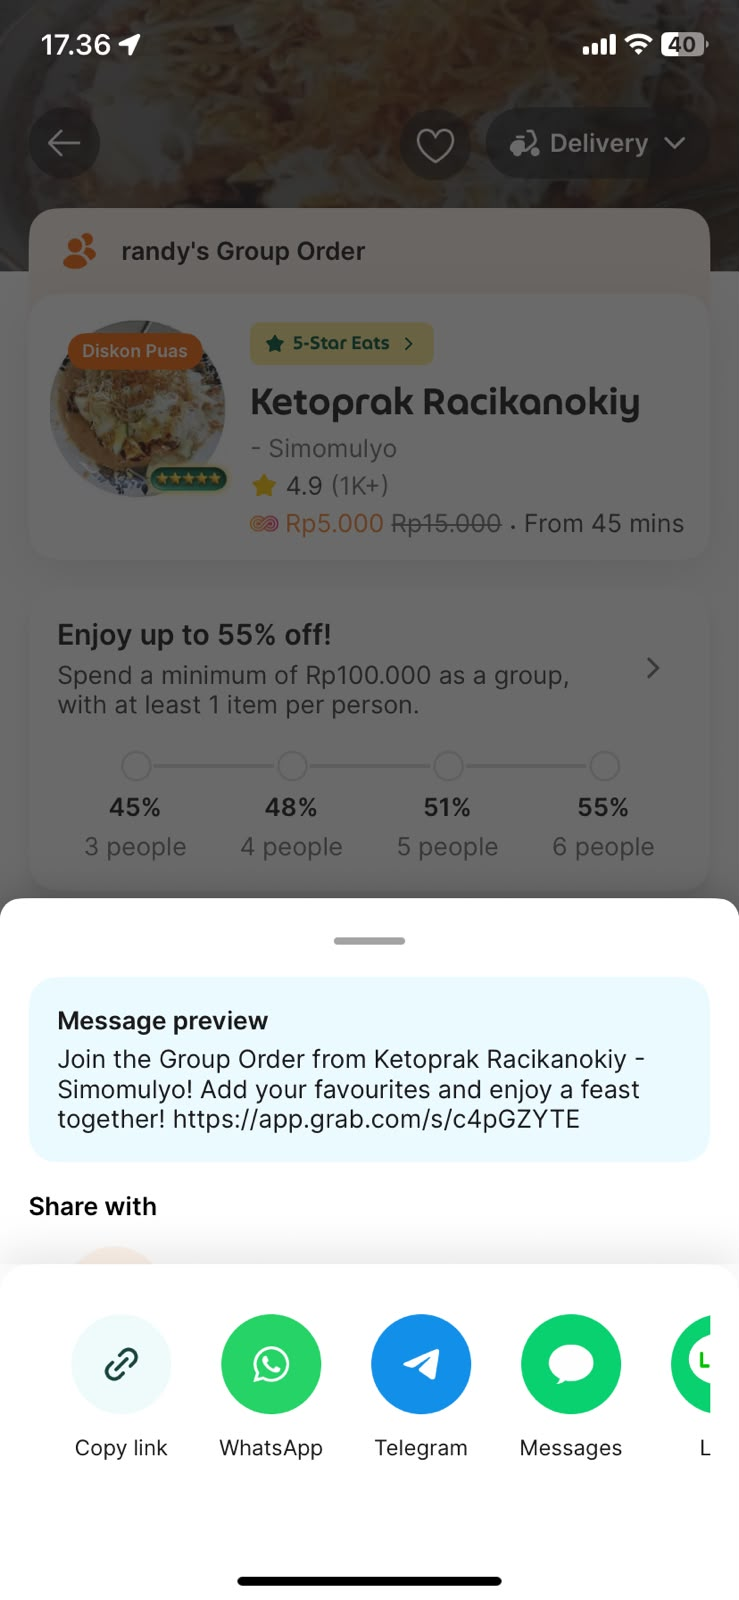
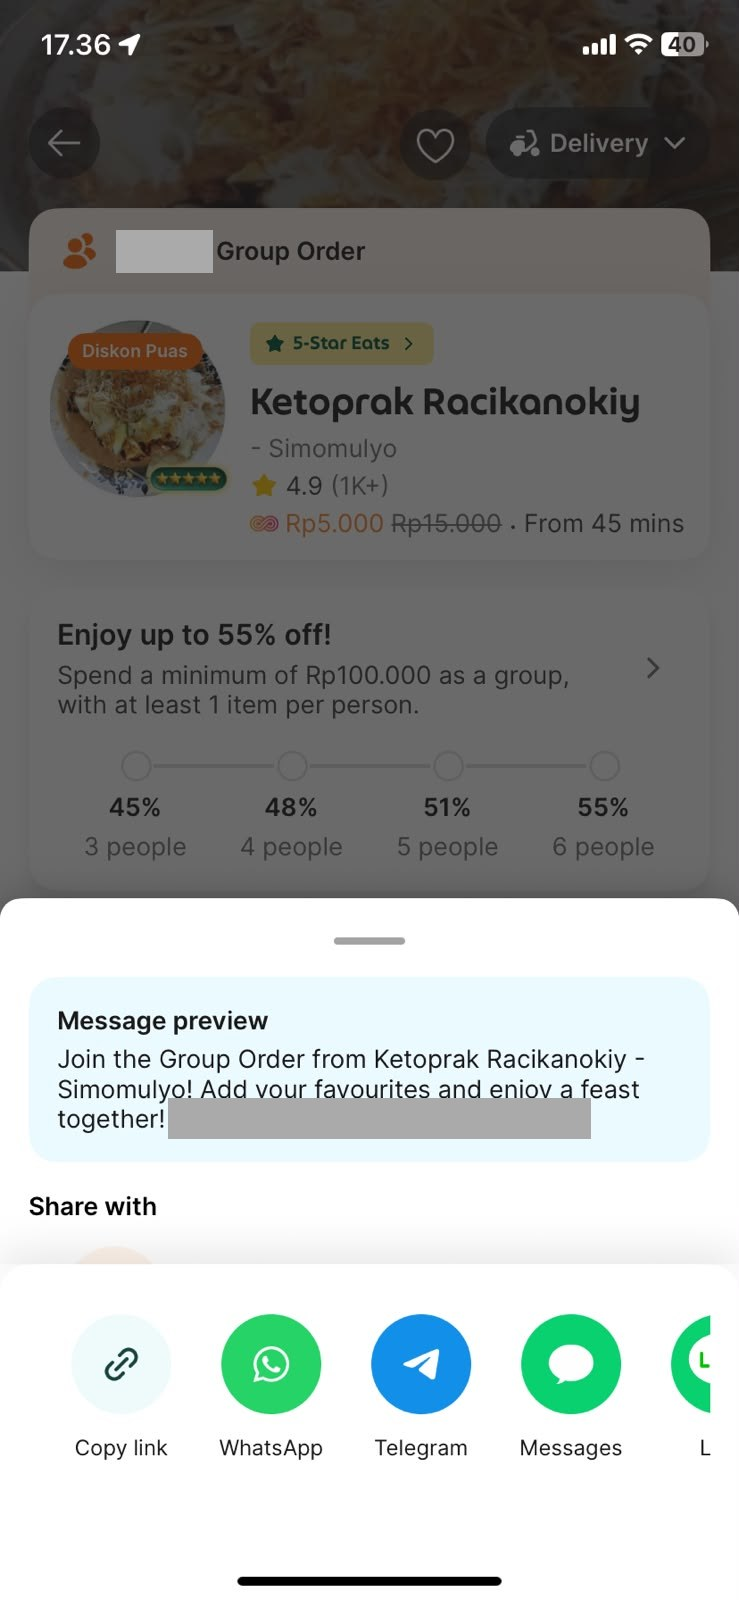
Referensi group order: tutup data pribadi di screenshot, tandai tafsiran & butir menunggu G-03/P-17/P-28 (QA 12 Nov)
Claude-Session: https://claude.ai/code/session_01S85dXoQzQtswa1GoQMY91J

Changed region(s): [[0.2179, 0.6875, 0.8092, 0.7188], [0.1556, 0.125, 0.3112, 0.1875]]

diff --git a/docs/referensi/group-order/README.md b/docs/referensi/group-order/README.md
@@ -1,8 +1,8 @@
 # Referensi UI/UX Group Order — ShopeeFood & GrabFood
 
-Diberikan pemilik (Randy) 12 Nov 2026 sebagai acuan desain group order NEKAT. Wajib dipakai oleh T-007 (spesifikasi UX), T-008 (komponen UI), T-024 (link grup), T-027 (kartu produk), T-028 (detail produk), dan T-033 (checkout).
+Diberikan pemilik (Randy) 12 Nov 2026 sebagai acuan desain group order NEKAT. Usulan agen: dipakai sebagai acuan oleh T-007 (spesifikasi UX), T-008 (komponen UI), T-024 (link grup), T-027 (kartu produk), T-028 (detail produk), dan T-033 (checkout). Status "wajib" menunggu persetujuan Randy (merge PR #10). Bila bertentangan dengan `keputusan.md` atau spesifikasi yang sudah di-merge, keputusan/spesifikasi yang menang.
 
-Screenshot di folder ini hanya untuk referensi internal. Jangan menyalin logo, nama merek, ilustrasi, atau warna khas Shopee/Grab ke aplikasi NEKAT.
+Screenshot di folder ini hanya untuk referensi internal; nama akun, nama kontak, dan link undangan asli sudah ditutup (sesi QA 12 Nov). Jangan menyalin logo, nama merek, ilustrasi, atau warna khas Shopee/Grab ke aplikasi NEKAT.
 
 | File | Isi |
 |---|---|
@@ -16,9 +16,9 @@ Screenshot di folder ini hanya untuk referensi internal. Jangan menyalin logo, n
 | # | Pola | Sumber | Penerapan di NEKAT |
 |---|---|---|---|
 | R1 | Tombol **"Group Order"** menonjol di samping aksi utama | Grab | Di detail produk dan halaman toko/kategori: tombol "Belanja Bareng (Group Order)" di samping "+ Keranjang" |
-| R2 | Chip promo "Hemat s.d. X% pakai Group Order" | Grab, Shopee | Chip di kartu produk & detail; angka X dihitung dari harga tier termurah vs harga 1 pcs (rupiah tetap ditampilkan, aturan "harga kartu = detail") |
+| R2 | Chip promo "Hemat s.d. X% pakai Group Order" | Grab, Shopee | Chip di kartu produk & detail; angka X dihitung hanya dari tingkat harga yang **berlaku untuk level pembeli yang melihat** (bukan harga Mitra/grosir), vs harga 1 pcs; rupiah tetap ditampilkan, aturan "harga kartu = detail"; definisi harga coret menunggu P-17 |
 | R3 | **Kartu progres bertingkat** (garis dengan titik per tingkat) | Shopee, Grab | Satu komponen `TanggaGrup`: titik = tingkat harga produk (1 pcs, 3 pcs, lusin, dus, koli sesuai produk, keputusan P-03); label bawah = harga per pcs; titik aktif berwarna |
-| R4 | **Kalimat ajakan konkret**: "Ajak 2 orang untuk dapat diskon 6%" | Shopee | "Kurang **2 akun** agar grup terbuka" (sebelum 3 akun) lalu "Tambah **5 pcs** lagi → Rp{harga}/pcs" (setelah grup terbuka) |
+| R4 | **Kalimat ajakan konkret**: "Ajak 2 orang untuk dapat diskon 6%" | Shopee | "Kurang **2 akun** agar grup terbuka" (sebelum 3 akun) lalu "Tambah **5 pcs** lagi → Rp{harga}/pcs" (setelah grup terbuka). *Tafsiran agen*: tingkat harga dihitung dari kuantitas gabungan grup; cara hitung (per unit gabungan atau per akun) belum terjawab di P-03/F-04 |
 | R5 | Baris anggota: avatar + "1 orang" + tombol **Undang** | Shopee | Avatar inisial (nama disamarkan, Kebijakan Privasi §3) + "{n} akun · {m} pcs" + tombol "Undang" |
 | R6 | Header grup: "**{nama} Group Order**" + tombol **Batal** | Shopee | "Grup {nama}" + "Keluar grup" (batal hanya sebelum bayar/cut-off sesuai flow T-002) |
 | R7 | Layar **Buat grup** berisi syarat, tangga, cara bayar, batas waktu, nama grup, tombol besar di bawah | Grab | Lihat §3 |
@@ -31,12 +31,12 @@ Screenshot di folder ini hanya untuk referensi internal. Jangan menyalin logo, n
 
 | Referensi | NEKAT | Dasar |
 |---|---|---|
-| Diskon naik berdasarkan **jumlah orang** (2, 3…6 orang) | Harga naik-turun berdasarkan **kuantitas barang** per tingkat produk; jumlah akun hanya syarat **membuka** grup (min. 3) | `keputusan.md` #3, P-03 |
+| Diskon naik berdasarkan **jumlah orang** (2, 3…6 orang) | Harga naik-turun berdasarkan **kuantitas barang** per tingkat produk; jumlah akun hanya syarat **membuka** grup (min. 3) | `keputusan.md` #3, P-03 (cara hitung kuantitas: *tafsiran agen*, lihat R4) |
 | Diskon ditampilkan sebagai **persen** | Tampilkan **rupiah per pcs**, persen boleh sebagai pelengkap | CLAUDE.md "harga kartu = detail" |
-| **Split bill**: pembuat grup membayar dulu | Setiap akun **bayar sendiri di awal** via VA/QRIS, batas bayar 60 menit | F-01, F-26 |
-| **Deadline** diatur pembuat grup ("None") | Batas waktu = **cut-off slot kirim**, ditentukan sistem, tidak bisa diubah pembuat grup | `keputusan.md` #3, T-002 |
+| **Split bill**: pembuat grup membayar dulu | **Menunggu G-03**: pemilik minta dua opsi (pembuat grup bayar semua, atau tiap akun bayar sendiri). Yang sudah pasti: dilunasi di awal via VA/QRIS, batas bayar 60 menit | F-01, F-26, F-29, G-03 |
+| **Deadline** diatur pembuat grup ("None") | Batas waktu = **cut-off slot kirim**, ditentukan sistem, tidak bisa diubah pembuat grup | flow T-002 (PR #2) |
 | Grup gagal = tidak dapat diskon tapi tetap kirim | Grup < 3 akun: harga satuan, pesanan **terkunci/tidak diproses** | F-02 |
-| Pengiriman instan (26–45 menit) | Pengiriman terjadwal per slot harian | `keputusan.md` #4 |
+| Pengiriman instan (26–45 menit) | Pengiriman terjadwal per slot harian | backlog T-006 (slot harian) |
 | Promo berlangganan pihak ketiga (VIP, GrabUnlimited) | Tidak ada di Fase 1 | — |
 
 ## 3. Layar "Buat Grup" NEKAT (adaptasi R7)
@@ -46,13 +46,15 @@ Urutan dari atas:
 2. Ilustrasi sederhana orisinal NEKAT (bukan ilustrasi Grab).
 3. Kartu syarat + `TanggaGrup` (R3, R8).
 4. **Slot kirim** (tanggal + jam) dan jam tutup grup — hanya tampil, tidak bisa diubah.
-5. **Cara kirim**: antar ke rumah / ambil di drop point (drop point = harga Mitra bila memenuhi syarat P-05).
+5. **Cara kirim**: antar ke rumah / ambil di drop point. Jangan tampilkan nominal/label harga Mitra di layar ini; info harga Mitra drop point hanya di checkout (P-28).
 6. **Nama grup** (bisa diubah, default "Grup {nama depan}").
-7. **Pembayaran**: "Setiap anggota bayar bagiannya sendiri di awal (VA/QRIS), batas 60 menit".
+7. **Pembayaran**: teks menunggu **G-03** (pembuat grup bayar semua / tiap anggota bayar sendiri); keduanya dilunasi di awal via VA/QRIS, batas 60 menit.
 8. Tombol besar hijau di bawah: **"Buat Grup & Bagikan"** → langsung membuka lembar bagikan (R9).
 
 Pesan bagikan default (bisa diubah pengguna):
 > Yuk ikut Belanja Bareng {produk} di NEKAT! Makin banyak yang ikut, makin murah — sekarang Rp{harga}/pcs. Grup tutup {jam}. {link}
+
+`{harga}` = harga yang sama persis dengan kartu produk saat pesan dibuat (sebelum grup terbuka/3 akun, harga grup belum berlaku; promo tidak dicampur ke angka ini).
 
 ## 4. Butuh keputusan (ditambahkan ke issue #5)
 
